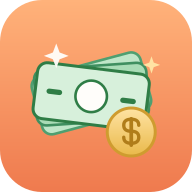
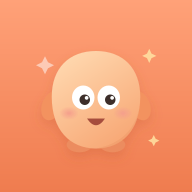
Icono = mascota Chubi + splash animada al abrir la PWA
- Iconos PWA (192/512/maskable) regenerados con la carita de Chubi sobre el
  gradiente coral, reemplazando los billetes genéricos. SVG fuente en scripts/.
- Nuevo SplashScreen.jsx: Chubi flotando + "Gastos danis" con pop y fade-out.
  Solo se muestra en modo standalone (PWA instalada), respeta reduced-motion.

diff --git a/app/legacy.css b/app/legacy.css
@@ -808,3 +808,51 @@ table.tbl { width:100%; border-collapse:collapse; min-width:640px; }
 .cierre-foot { font-family:var(--font-d); font-size:12px; color:var(--ink-soft); margin:12px 0 8px; }
 .cierre-btn { width:100%; }
 .cierre-form { margin-top:4px; }
+
+/* =========================================================
+   SPLASH PWA (pantalla de bienvenida animada al abrir la app)
+   Solo se monta cuando corre como PWA instalada (ver SplashScreen.jsx).
+   Reusa la mascota Chubi (.chubi) que ya flota con su animación propia.
+   ========================================================= */
+.splash {
+  position:fixed; inset:0; z-index:9999;
+  display:flex; flex-direction:column; align-items:center; justify-content:center; gap:18px;
+  /* Mismo coral del theme/manifest para continuidad con el splash nativo */
+  background:linear-gradient(165deg,#ffa178,#ef7c4f);
+  /* Aparece de una; al terminar la carga se desvanece con la clase .splash-out */
+  animation:splashIn .35s ease both;
+  /* Por encima de notch en móviles */
+  padding:env(safe-area-inset-top) 0 env(safe-area-inset-bottom);
+}
+.splash-out { animation:splashOut .45s ease forwards; pointer-events:none; }
+
+/* Chubi entra con un pop suave; su flotar (chubiBob) sigue corriendo por debajo */
+.splash .chubi { animation:splashPop .55s cubic-bezier(.34,1.56,.64,1) both; }
+
+.splash-title {
+  font-family:var(--font-d); font-weight:700; font-size:30px; letter-spacing:.3px;
+  color:#fff; text-shadow:0 3px 10px rgba(160,60,30,.28);
+  opacity:0; animation:splashTitle .5s ease .25s both;
+}
+.splash-sub {
+  font-family:var(--font-n); font-weight:600; font-size:14px;
+  color:rgba(255,255,255,.92); margin-top:-8px;
+  opacity:0; animation:splashTitle .5s ease .4s both;
+}
+
+@keyframes splashIn  { from { opacity:0; } to { opacity:1; } }
+@keyframes splashOut { to { opacity:0; transform:scale(1.04); } }
+@keyframes splashPop {
+  0%   { transform:scale(.55) translateY(14px); opacity:0; }
+  60%  { transform:scale(1.06) translateY(0);   opacity:1; }
+  100% { transform:scale(1) translateY(0);      opacity:1; }
+}
+@keyframes splashTitle {
+  from { opacity:0; transform:translateY(10px); }
+  to   { opacity:1; transform:translateY(0); }
+}
+
+/* Si el usuario pidió menos movimiento, mantenemos la pantalla pero sin saltos */
+@media (prefers-reduced-motion: reduce) {
+  .splash, .splash .chubi, .splash-title, .splash-sub { animation-duration:.01ms !important; }
+}

diff --git a/components/SplashScreen.jsx b/components/SplashScreen.jsx
@@ -1,0 +1,46 @@
+'use client'
+import { useEffect, useState } from 'react'
+import Chubi from './Chubi.jsx'
+
+// Pantalla de bienvenida animada al abrir la PWA instalada.
+// - Solo se muestra en modo standalone (PWA), no en el navegador normal,
+//   para no entorpecer la navegación web habitual.
+// - Reusa la mascota Chubi (misma del login) → identidad coherente con el icono.
+// - Tras un instante hace fade-out (.splash-out) y se desmonta.
+//
+// Tiempos: VISIBLE = cuánto se ve entera; FADE = duración del desvanecido
+// (debe coincidir con la animación splashOut del CSS).
+const VISIBLE = 1300
+const FADE = 450
+
+export default function SplashScreen() {
+  // mounted: si el overlay existe en el DOM. leaving: si está haciendo fade-out.
+  const [mounted, setMounted] = useState(false)
+  const [leaving, setLeaving] = useState(false)
+
+  useEffect(() => {
+    // ¿Corre como PWA instalada? (Android/desktop usan display-mode; iOS, navigator.standalone)
+    const standalone =
+      window.matchMedia?.('(display-mode: standalone)').matches ||
+      window.navigator.standalone === true
+    if (!standalone) return
+
+    setMounted(true)
+    const t1 = setTimeout(() => setLeaving(true), VISIBLE)
+    const t2 = setTimeout(() => setMounted(false), VISIBLE + FADE)
+    return () => {
+      clearTimeout(t1)
+      clearTimeout(t2)
+    }
+  }, [])
+
+  if (!mounted) return null
+
+  return (
+    <div className={`splash${leaving ? ' splash-out' : ''}`} aria-hidden="true">
+      <Chubi estado="happy" size={172} />
+      <h1 className="splash-title">Gastos danis</h1>
+      <p className="splash-sub">Anotá tus gastos hablando</p>
+    </div>
+  )
+}

diff --git a/app/layout.jsx b/app/layout.jsx
@@ -3,6 +3,7 @@
 import './legacy.css'
 import Providers from './providers.jsx'
 import RegisterSW from '../components/RegisterSW.jsx'
+import SplashScreen from '../components/SplashScreen.jsx'
 
 // Metadata global (Next la inyecta en el <head>). `manifest` habilita la PWA.
 export const metadata = {
@@ -37,6 +38,7 @@ export default function RootLayout({ children }) {
       <body>
         <Providers>{children}</Providers>
         <RegisterSW />
+        <SplashScreen />
       </body>
     </html>
   )

diff --git a/scripts/README.md b/scripts/README.md
@@ -1,0 +1,28 @@
+# Iconos de la PWA (mascota Chubi)
+
+Los iconos de la app (`public/icon-192.png`, `icon-512.png`, `icon-512-maskable.png`)
+se generan a partir de los SVG fuente de esta carpeta:
+
+- `chubi-icon.svg`          → icono normal (purpose "any")
+- `chubi-icon-maskable.svg` → versión con más margen para el recorte circular de Android (purpose "maskable")
+
+La paleta y la anatomía replican la mascota Chubi del CSS (`app/legacy.css`, sección CHUBI).
+
+## Regenerar los PNG
+
+```bash
+npm install --no-save sharp
+node -e '
+const sharp = require("sharp"), fs = require("fs");
+const main = fs.readFileSync("scripts/chubi-icon.svg");
+const mask = fs.readFileSync("scripts/chubi-icon-maskable.svg");
+(async () => {
+  await sharp(main, { density: 384 }).resize(512, 512).png().toFile("public/icon-512.png");
+  await sharp(main, { density: 384 }).resize(192, 192).png().toFile("public/icon-192.png");
+  await sharp(mask, { density: 384 }).resize(512, 512).png().toFile("public/icon-512-maskable.png");
+})();
+'
+```
+
+Editá el SVG, corré el comando y los PNG se actualizan. `sharp` se instala con `--no-save`
+(no queda en `package.json`); podés borrar `node_modules/sharp` después.
